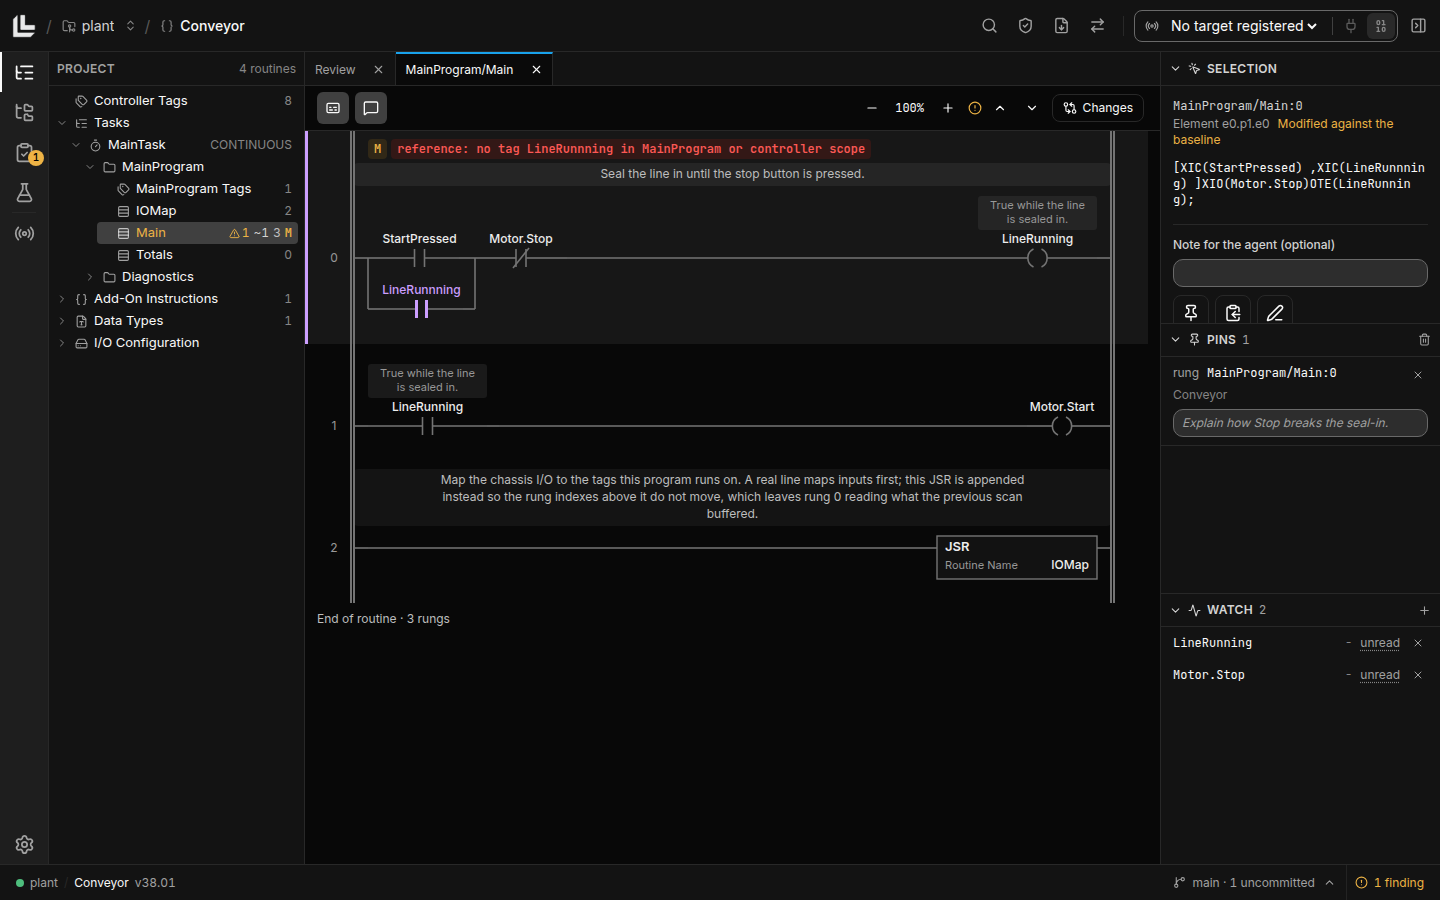
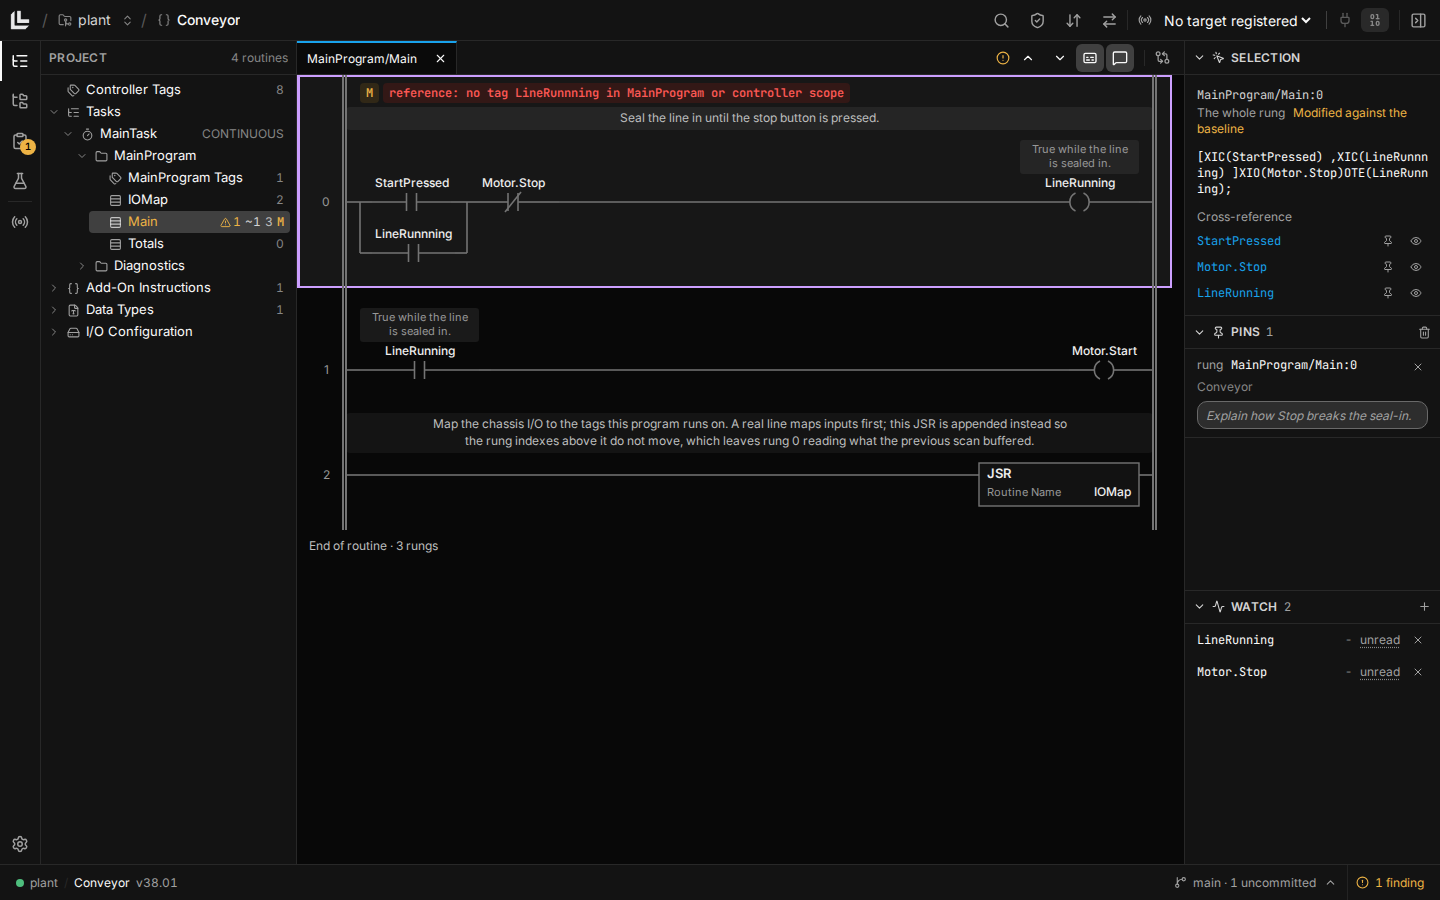
Publish the README for Logicly 0.15.0 (#6)
## Change

Publishes the README from the source repository for Logicly 0.15.0,
copying only the files the source's publishing procedure lists.

- `docs/assets/hero.png`, `findings.png` and `runs.png`: retaken from
the released 0.15.0 viewer, which redrew the chrome around a 40-pixel
header and moved the ladder's controls into its tab strip.
- `runs.png`'s alt text says what the shot now shows: a test run beside
the Tests view, with runs, a verification and a download in its history.

## Verification

- Each copied file is byte-identical to the merged source
(zanotra/logicly#1109); `LICENSE`, the logo and `demo.gif` were already
identical and are unchanged.
- The customer-names check on the staged content is clean.
- After merging: the public page's images, section links and download
links load.

🤖 Generated with [Claude Code](https://claude.com/claude-code)

diff --git a/README.md b/README.md
@@ -50,7 +50,7 @@ See syntax, tag-reference and instruction errors beside the affected rung. Valid
 Run repeatable tests against Logix Echo or a controller. Add Python plant models on an emulator and review recorded results.
 
 <p align="center">
-  <img src="docs/assets/runs.png" alt="The test launcher and history of runs, verifications and downloads" width="720" />
+  <img src="docs/assets/runs.png" alt="A test run open beside the Tests view, whose history holds runs, a verification and a download" width="720" />
 </p>
 
 ## Start with a project
